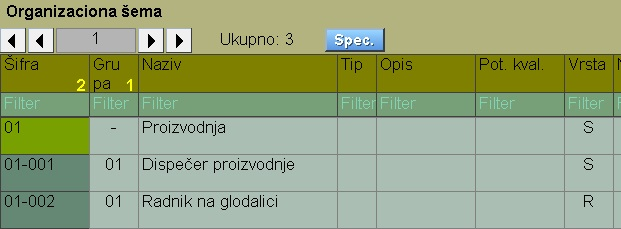
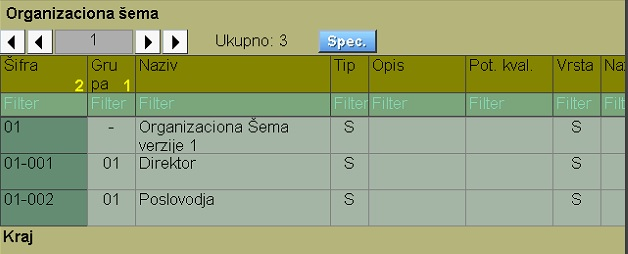
upis prve grupe org.seme

diff --git a/camp2_sr/l_sr/ob101_sr/ob101_sr.md b/camp2_sr/l_sr/ob101_sr/ob101_sr.md
@@ -6,12 +6,20 @@ Organizaciona šema ima hierarhijsku strukturu i podeljena na grupe, zatim svaka
 
 ![Image](ob1011.jpg)
 
+Grupu moramo izabrati pre upisa novog reda šeme.
+Novu grupu upisati sa izborom grupe: "-" .
+
+Grupa obično odgovara verziji šeme: sa 01 neka počinje sadašnja šema, 
+02 je sledeća itd..
+
+Posle izbora grupe 01 možemo upisati prvi red šeme.
 Možemo uneti puno podataka za neki posao iz organ.šeme,
 ali je bitan:
 - Faza (Aktivan, Pasivan)
 - Naziv posla
 - Evidencija časova (Da,Ne)
-- Vrta šeme (Radnik,Sektor,Porta)
+- Vrta šeme (Radnik,Sektor,Porta) i tip radnog mesta
+- Viša šifra (naderedjena)
 
 ![Image](ob1012.jpg)
 
